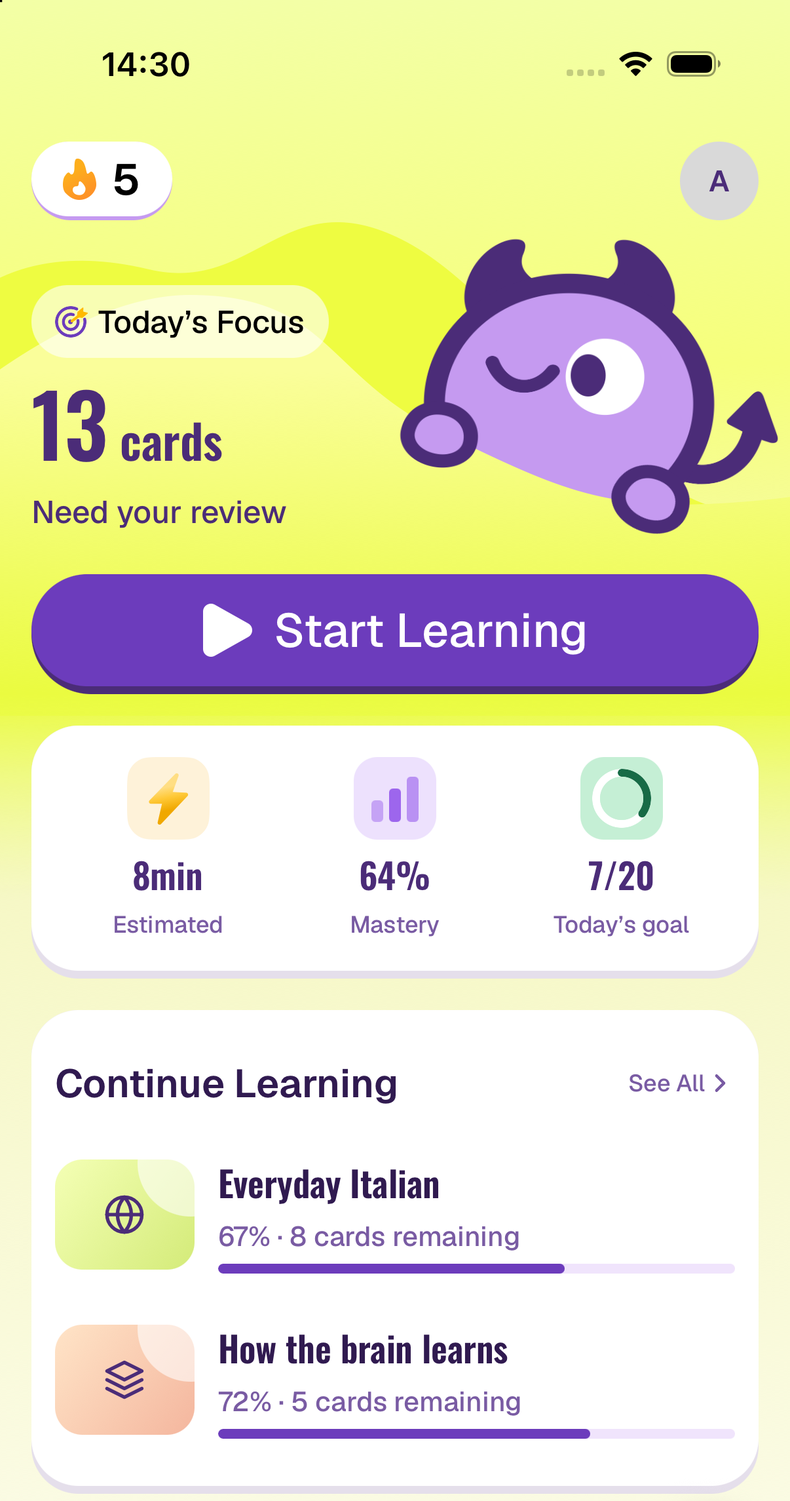
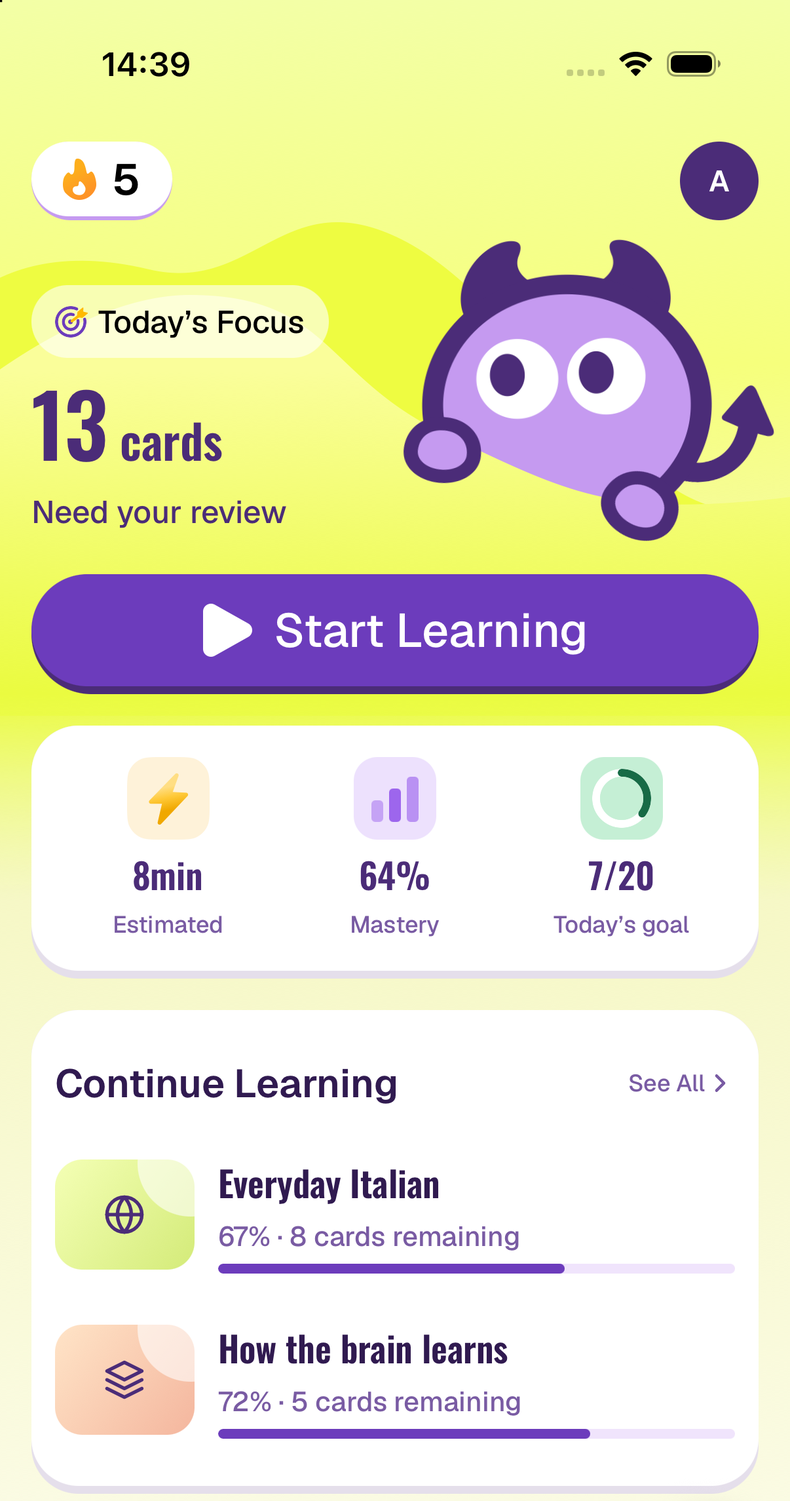
Let the website's character open its eyes
The hero wore one drawing, a face with its eyes shut, and nothing in it ever
changed. In the app that same mood holds a face for 2600-5200ms and then swaps
it — and it swaps behind a blink, so the expression never morphs, it is simply
different when the eyes come back up.

Here the two drawings are the blink. The happy face's eyes are already closed,
so cutting to the aha frame is the character opening them, and cutting back is
it closing them into a smile. Both sit in the one box that hops, at the same
450px square, and the swap is a cut rather than a crossfade — fading one face
into the other would morph it, which is the thing the app's blink exists to
prevent. The hold is the app's own, re-randomised each time.

The drawings register: measured off the rendered bitmaps, the two bodies share a
left edge and a top edge and agree on width to within a pixel, so only the face
changes. aha.svg comes from assets/memq-mascot-svg, the same set the app's
frames are drawn from.

Without JavaScript the closed-eyed face stays, as before, and the swap is off
under reduced motion along with everything else.

The Today capture is retaken for the avatar, which is no longer grey.

diff --git a/preview/memq-website/site.css b/preview/memq-website/site.css
@@ -1,4 +1,4 @@
-:root{--ink:#4b2c78;--deep:#301a50;--purple:#6c3cbc;--yellow:#f6ff7c;--cream:#fcfced;--white:#fff;--line:#e5dfeb;--muted:#795ba3;--lilac:#ede1fd;--peach:#ffdcc6}*{box-sizing:border-box}html{scroll-behavior:smooth}body{margin:0;background:var(--cream);color:var(--deep);font-family:Geist,sans-serif}a{color:inherit;text-decoration:none}.shell{width:min(100% - 72px,1320px);margin:auto}.nav{height:92px;display:flex;align-items:center;justify-content:space-between;gap:25px;position:absolute;z-index:3;left:0;right:0}.wordmark{font-weight:700;font-size:31px;letter-spacing:-2px;color:var(--ink)}.wordmark span{display:inline-block;color:var(--purple);font-size:19px;vertical-align:top;margin-left:1px}.nav nav{display:flex;gap:36px;font-weight:600;font-size:14px;color:var(--ink)}.nav nav a:hover,.text-link:hover{opacity:.65}.nav-action{display:flex;gap:32px;padding:14px 20px;border-radius:30px;background:var(--ink);color:white;font-size:13px;font-weight:700;align-items:center}.hero{min-height:780px;background:linear-gradient(150deg,#f3ffa6 0%,var(--yellow) 45%,#f4ffb4 100%);position:relative;overflow:hidden}.hero-grid{min-height:720px;padding-top:125px;display:grid;grid-template-columns:1fr 1fr;align-items:center;position:relative;z-index:1}.hero-copy{padding-bottom:70px}.eyebrow,.section-kicker,.mini-label{font-size:12px;font-weight:700;letter-spacing:.11em}.eyebrow{display:inline-flex;gap:10px;align-items:center;background:#ffffff8a;border-radius:22px;padding:10px 14px;color:var(--ink)}.dot{width:8px;height:8px;border-radius:50%;background:var(--purple)}h1,h2,h3,p{margin:0}h1,h2{font-family:Oswald,sans-serif;font-weight:600;letter-spacing:-.045em}h1{font-size:clamp(94px,11vw,165px);line-height:.87;color:var(--ink);margin:24px 0}h1 span{color:var(--purple)}.hero-copy p{font-size:clamp(17px,1.65vw,21px);line-height:1.55;max-width:490px;color:var(--ink)}.hero-actions{display:flex;align-items:center;gap:28px;margin-top:30px}.button{min-height:58px;padding:0 22px 0 26px;border-radius:40px;display:inline-flex;align-items:center;justify-content:space-between;gap:44px;font-weight:700;font-size:15px;transition:transform .22s ease,box-shadow .22s ease}.button:hover{transform:translateY(-3px)}.button-dark{background:var(--purple);color:white;box-shadow:0 5px 0 var(--ink)}.button-light{background:var(--yellow);color:var(--ink);box-shadow:0 5px 0 #a5a85f}.text-link{font-size:15px;font-weight:700;color:var(--ink)}.text-link span{margin-left:8px}.hero-art{height:570px;position:relative;display:grid;place-items:center}.hero-disc{position:absolute;width:min(37vw,475px);aspect-ratio:1;border-radius:50%;background:#e3d3fc}.mascot{position:relative;width:min(36vw,450px);z-index:1;transform-origin:50% 100%;animation:mascot-hop 3s linear infinite}.art-spark{position:absolute;color:var(--purple);font-size:66px;z-index:2;animation:twinkle 4s ease-in-out infinite}.spark-a{top:30px;right:18%}.spark-b{bottom:45px;left:8%;font-size:42px;animation-delay:-2s}.floating-chip{position:absolute;z-index:2;border-radius:50px;background:white;box-shadow:0 4px 0 var(--line);display:flex;align-items:center;gap:8px;padding:11px 16px;font-size:14px;color:var(--ink);font-weight:700}.chip-streak{top:21%;left:4%;transform:rotate(-8deg)}.chip-streak img{width:22px;height:22px}.chip-remember{right:0;bottom:23%;transform:rotate(7deg)}.chip-remember span{background:var(--yellow);border-radius:50%;width:25px;height:25px;display:grid;place-items:center}.art-note{position:absolute;right:3%;top:3%;color:var(--ink);transform:rotate(8deg);font-family:Oswald;font-size:17px;line-height:1.05}.art-note span{display:block;font-family:Geist;font-size:10px;font-weight:600;margin-top:5px}.hero-bottom{position:relative;z-index:1;display:flex;justify-content:space-between;padding:20px 0 28px;color:var(--ink);font-size:10px;font-weight:700;letter-spacing:.12em}.hero-orbit{position:absolute;border:1px solid #6c3cbc30;border-radius:50%;pointer-events:none}.orbit-one{width:820px;height:820px;right:-280px;top:-300px}.orbit-two{width:1000px;height:1000px;right:-370px;top:-390px}.ticker{overflow:hidden;background:var(--ink);color:var(--yellow);height:65px;display:flex;align-items:center}.ticker-track{font-family:Oswald;font-size:23px;white-space:nowrap;letter-spacing:.04em;animation:marquee 28s linear infinite}.ticker i{font-style:normal;color:#caa5ff;margin:0 28px}.intro{padding:150px 0;display:grid;grid-template-columns:1fr 2fr;gap:35px}.section-kicker{color:var(--muted);display:flex;align-items:center;gap:13px}.section-kicker span{width:34px;height:34px;display:grid;place-items:center;border:1px solid var(--line);border-radius:50%;letter-spacing:0}.intro h2,.steps h2{font-size:clamp(58px,7vw,102px);line-height:.98;color:var(--ink)}h2 em{font-style:normal;color:var(--purple)}.intro p{max-width:520px;margin-top:25px;font-size:18px;line-height:1.6;color:var(--muted)}.feature-band{background:#e7d6ff;padding:120px 0}.feature-grid{display:grid;grid-template-columns:1fr 1fr;gap:70px;align-items:center}.mini-label{color:var(--ink)}.feature-lead h2{font-size:clamp(64px,7vw,100px);line-height:.96;color:var(--ink);margin:24px 0}.feature-lead p,.steps-head p{font-size:17px;line-height:1.6;max-width:350px;color:var(--ink)}.feature-stack{display:grid;gap:14px}.feature-card{display:flex;gap:20px;align-items:center;background:white;border-radius:24px;padding:24px;box-shadow:0 5px 0 #cdbce2}.feature-icon{width:56px;height:56px;flex:none;border-radius:18px;display:grid;place-items:center;font-size:28px;font-weight:600;color:var(--ink)}.lime{background:var(--yellow)}.lavender{background:var(--lilac)}.peach{background:var(--peach)}.feature-card h3,.step-grid h3{font-family:Geist;font-size:20px;color:var(--ink);margin-bottom:7px}.feature-card p,.step-grid p{font-size:14px;line-height:1.55;color:var(--muted)}.feature-arrow{margin-left:auto;color:var(--purple);font-size:20px}.steps{padding:150px 0}.steps-head{display:flex;align-items:end;justify-content:space-between;gap:30px;margin:30px 0 55px}.step-grid{display:grid;grid-template-columns:repeat(3,1fr);gap:22px}.step-grid article{position:relative}.step-number{display:block;font-family:Oswald;font-size:16px;color:var(--muted);margin-bottom:12px}.step-art{height:240px;border-radius:28px;margin-bottom:22px;display:grid;place-items:center;position:relative;overflow:hidden}.art-one{background:#f0f8ad}.art-one>span{font-size:150px;line-height:1;color:var(--purple)}.tiny-note{position:absolute;right:20%;top:20%;padding:15px;background:white;border-radius:13px;transform:rotate(9deg);font:600 17px/1.1 Oswald;color:var(--ink);box-shadow:0 4px 0 var(--line)}.art-two{background:#e7d6ff}.tiny-card{background:white;border-radius:18px;padding:25px;width:65%;font-weight:700;color:var(--ink);font-size:18px;line-height:1.35;transform:rotate(-7deg);box-shadow:0 5px 0 #cdbce2}.tiny-card b{display:block;text-align:right;margin-top:15px;color:var(--purple)}.art-three{background:#ffdfce}.tiny-check{width:100px;height:100px;display:grid;place-items:center;border-radius:50%;background:var(--purple);color:white;font-size:53px;transform:rotate(-10deg)}.art-three>span{position:absolute;right:19%;top:16%;font-size:55px;color:var(--ink)}.step-grid h3{margin-top:0}.step-grid p{max-width:290px}.closing{background:var(--purple);color:white;overflow:hidden}.closing-grid{min-height:480px;display:flex;align-items:center;justify-content:space-between;gap:30px;padding-top:70px;padding-bottom:70px}.closing .mini-label{color:var(--yellow)}.closing h2{font-size:clamp(64px,7vw,100px);line-height:.97;margin:20px 0;color:white}.closing h2 em{color:var(--yellow)}.closing p{font-size:17px;line-height:1.5;margin-bottom:25px}.closing-mascot{width:min(35vw,360px);transform:rotate(8deg)}.site-footer{background:var(--ink);color:white;padding:70px 0 26px}.footer-grid{display:grid;grid-template-columns:2fr 1fr 1fr;gap:30px}.footer-logo{color:var(--yellow)}.footer-logo span{color:#d2b8ff}.footer-grid p{font-size:14px;opacity:.7;margin-top:12px}.footer-grid strong,.footer-grid>div>a:not(.wordmark){display:block;font-size:14px;margin-bottom:14px}.footer-grid>div>a:not(.wordmark){opacity:.72}.footer-bottom{margin-top:60px;padding-top:20px;border-top:1px solid #ffffff40;display:flex;justify-content:space-between;font-size:11px;letter-spacing:.08em;opacity:.65}@keyframes mascot-hop{0%{transform:translateY(0.000%) scale(1.0000,1.0000)}0.9444%{transform:translateY(0.033%) scale(1.0014,0.9984)}1.889%{transform:translateY(0.133%) scale(1.0076,0.9916)}2.833%{transform:translateY(0.300%) scale(1.0186,0.9794)}3.778%{transform:translateY(0.533%) scale(1.0343,0.9618)}4.722%{transform:translateY(0.833%) scale(1.0549,0.9390)}5.663%{transform:translateY(1.199%) scale(1.0803,0.9108)}5.667%{transform:translateY(1.200%) scale(0.8825,1.1306)}6.944%{transform:translateY(-0.083%) scale(0.9154,1.0940)}8.222%{transform:translateY(-1.133%) scale(0.9421,1.0643)}9.5%{transform:translateY(-1.950%) scale(0.9628,1.0413)}10.78%{transform:translateY(-2.533%) scale(0.9773,1.0252)}12.06%{transform:translateY(-2.883%) scale(0.9857,1.0159)}13.33%{transform:translateY(-3.000%) scale(0.9879,1.0134)}14.78%{transform:translateY(-2.917%) scale(0.9862,1.0154)}16.22%{transform:translateY(-2.667%) scale(0.9828,1.0191)}17.67%{transform:translateY(-2.250%) scale(0.9779,1.0246)}19.11%{transform:translateY(-1.667%) scale(0.9714,1.0318)}20.56%{transform:translateY(-0.917%) scale(0.9633,1.0408)}22%{transform:translateY(-0.002%) scale(0.9536,1.0515)}22%{transform:translateY(-0.000%) scale(1.1233,0.8630)}22.78%{transform:translateY(-0.000%) scale(1.0806,0.9104)}23.56%{transform:translateY(-0.000%) scale(1.0458,0.9492)}24.33%{transform:translateY(-0.000%) scale(1.0186,0.9793)}25.11%{transform:translateY(-0.000%) scale(0.9993,1.0008)}25.89%{transform:translateY(-0.000%) scale(0.9877,1.0137)}26.66%{transform:translateY(-0.000%) scale(0.9839,1.0179)}27.78%{transform:translateY(-0.000%) scale(0.9841,1.0177)}28.89%{transform:translateY(-0.000%) scale(0.9843,1.0174)}30%{transform:translateY(-0.000%) scale(0.9846,1.0171)}31.11%{transform:translateY(-0.000%) scale(0.9850,1.0167)}32.22%{transform:translateY(-0.000%) scale(0.9855,1.0161)}33.33%{transform:translateY(-0.000%) scale(0.9860,1.0155)}33.33%{transform:translateY(0.000%) scale(0.9860,1.0155)}34.28%{transform:translateY(0.033%) scale(0.9889,1.0123)}35.22%{transform:translateY(0.133%) scale(0.9967,1.0036)}36.17%{transform:translateY(0.300%) scale(1.0094,0.9896)}37.11%{transform:translateY(0.533%) scale(1.0268,0.9702)}38.06%{transform:translateY(0.833%) scale(1.0491,0.9454)}39%{transform:translateY(1.199%) scale(1.0761,0.9154)}39%{transform:translateY(1.200%) scale(1.0762,0.9153)}40.28%{transform:translateY(-0.083%) scale(0.9128,1.0969)}41.56%{transform:translateY(-1.133%) scale(0.9421,1.0644)}42.83%{transform:translateY(-1.950%) scale(0.9651,1.0388)}44.11%{transform:translateY(-2.533%) scale(0.9818,1.0202)}45.39%{transform:translateY(-2.883%) scale(0.9924,1.0085)}46.66%{transform:translateY(-3.000%) scale(0.9968,1.0036)}48.11%{transform:translateY(-2.917%) scale(0.9974,1.0029)}49.56%{transform:translateY(-2.667%) scale(0.9964,1.0040)}51%{transform:translateY(-2.250%) scale(0.9937,1.0070)}52.44%{transform:translateY(-1.667%) scale(0.9894,1.0118)}53.89%{transform:translateY(-0.917%) scale(0.9834,1.0185)}55.33%{transform:translateY(-0.002%) scale(0.9757,1.0269)}55.33%{transform:translateY(-0.000%) scale(0.9757,1.0270)}55.33%{transform:translateY(-0.000%) scale(1.1414,0.8428)}56.11%{transform:translateY(-0.000%) scale(1.1006,0.8883)}56.89%{transform:translateY(-0.000%) scale(1.0673,0.9253)}57.67%{transform:translateY(-0.000%) scale(1.0416,0.9538)}58.44%{transform:translateY(-0.000%) scale(1.0234,0.9740)}59.22%{transform:translateY(-0.000%) scale(1.0128,0.9858)}60%{transform:translateY(-0.000%) scale(1.0097,0.9893)}61.11%{transform:translateY(-0.000%) scale(1.0105,0.9883)}62.22%{transform:translateY(-0.000%) scale(1.0114,0.9874)}63.33%{transform:translateY(-0.000%) scale(1.0122,0.9865)}64.44%{transform:translateY(-0.000%) scale(1.0129,0.9857)}65.56%{transform:translateY(-0.000%) scale(1.0135,0.9850)}66.66%{transform:translateY(-0.000%) scale(1.0141,0.9843)}66.67%{transform:translateY(0.000%) scale(1.0141,0.9843)}67.61%{transform:translateY(0.033%) scale(1.0169,0.9812)}68.56%{transform:translateY(0.133%) scale(1.0243,0.9730)}69.5%{transform:translateY(0.300%) scale(1.0363,0.9596)}70.44%{transform:translateY(0.533%) scale(1.0529,0.9412)}71.39%{transform:translateY(0.833%) scale(1.0742,0.9176)}72.33%{transform:translateY(1.199%) scale(1.0999,0.8890)}72.33%{transform:translateY(1.200%) scale(1.1000,0.8889)}73.61%{transform:translateY(-0.083%) scale(0.9404,1.0663)}74.89%{transform:translateY(-1.133%) scale(0.9677,1.0359)}76.17%{transform:translateY(-1.950%) scale(0.9889,1.0124)}77.44%{transform:translateY(-2.533%) scale(1.0038,0.9957)}78.72%{transform:translateY(-2.883%) scale(1.0127,0.9859)}80%{transform:translateY(-3.000%) scale(1.0153,0.9830)}81.44%{transform:translateY(-2.917%) scale(1.0140,0.9845)}82.89%{transform:translateY(-2.667%) scale(1.0109,0.9879)}84.33%{transform:translateY(-2.250%) scale(1.0060,0.9933)}85.78%{transform:translateY(-1.667%) scale(0.9994,1.0007)}87.22%{transform:translateY(-0.917%) scale(0.9910,1.0100)}88.66%{transform:translateY(-0.002%) scale(0.9808,1.0213)}88.67%{transform:translateY(-0.000%) scale(1.1456,0.8382)}89.44%{transform:translateY(-0.000%) scale(1.1037,0.8847)}90.22%{transform:translateY(-0.000%) scale(1.0693,0.9230)}91%{transform:translateY(-0.000%) scale(1.0423,0.9529)}91.78%{transform:translateY(-0.000%) scale(1.0229,0.9746)}92.56%{transform:translateY(-0.000%) scale(1.0108,0.9879)}93.33%{transform:translateY(-0.000%) scale(1.0064,0.9929)}94.44%{transform:translateY(-0.000%) scale(1.0053,0.9941)}95.56%{transform:translateY(-0.000%) scale(1.0042,0.9953)}96.67%{transform:translateY(-0.000%) scale(1.0031,0.9965)}97.78%{transform:translateY(-0.000%) scale(1.0020,0.9978)}98.89%{transform:translateY(-0.000%) scale(1.0009,0.9990)}100%{transform:translateY(-0.000%) scale(0.9997,1.0003)}}@keyframes twinkle{0%,100%{transform:scale(.9) rotate(0)}50%{transform:scale(1.1) rotate(20deg)}}@keyframes marquee{to{transform:translateX(-50%)}}@media(max-width:760px){.shell{width:min(100% - 36px,600px)}.nav{height:74px}.nav nav{display:none}.nav-action{padding:12px 15px;gap:15px}.wordmark{font-size:27px}.hero{min-height:0}.hero-grid{padding-top:125px;min-height:0;display:flex;flex-direction:column;align-items:stretch}.hero-copy{padding-bottom:0}h1{font-size:clamp(88px,23vw,132px);margin:24px 0}.hero-copy p{font-size:17px;max-width:390px}.hero-actions{gap:18px;flex-wrap:wrap}.hero-art{height:390px;margin-top:10px}.hero-disc{width:290px}.mascot{width:280px}.spark-a{top:30px}.art-note{right:0;top:20px}.chip-streak{left:0;top:25%}.chip-remember{right:0;bottom:18%}.hero-bottom{padding-top:5px}.hero-bottom span:last-child{display:none}.ticker{height:55px}.ticker-track{font-size:19px}.intro{padding:90px 0;display:block}.intro-copy{margin-top:30px}.intro h2,.steps h2{font-size:58px}.intro p{font-size:16px}.feature-band{padding:80px 0}.feature-grid{grid-template-columns:1fr;gap:38px}.feature-lead h2{font-size:66px}.feature-card{padding:18px;gap:14px}.feature-card h3{font-size:18px}.feature-icon{width:48px;height:48px}.steps{padding:90px 0}.steps-head{display:block;margin:28px 0 40px}.steps-head p{margin-top:18px}.step-grid{grid-template-columns:1fr;gap:36px}.step-art{height:215px}.closing-grid{min-height:0;display:block;padding:80px 0 0}.closing h2{font-size:64px}.closing-mascot{display:block;width:245px;margin:30px auto -20px}.footer-grid{grid-template-columns:1fr 1fr}.footer-grid>div:first-child{grid-column:1 / -1;margin-bottom:20px}.footer-bottom{gap:10px;font-size:9px}}@media(prefers-reduced-motion:reduce){*,*::before,*::after{animation-duration:.01ms!important;animation-iteration-count:1!important;scroll-behavior:auto!important;transition-duration:.01ms!important}}
+:root{--ink:#4b2c78;--deep:#301a50;--purple:#6c3cbc;--yellow:#f6ff7c;--cream:#fcfced;--white:#fff;--line:#e5dfeb;--muted:#795ba3;--lilac:#ede1fd;--peach:#ffdcc6}*{box-sizing:border-box}html{scroll-behavior:smooth}body{margin:0;background:var(--cream);color:var(--deep);font-family:Geist,sans-serif}a{color:inherit;text-decoration:none}.shell{width:min(100% - 72px,1320px);margin:auto}.nav{height:92px;display:flex;align-items:center;justify-content:space-between;gap:25px;position:absolute;z-index:3;left:0;right:0}.wordmark{font-weight:700;font-size:31px;letter-spacing:-2px;color:var(--ink)}.wordmark span{display:inline-block;color:var(--purple);font-size:19px;vertical-align:top;margin-left:1px}.nav nav{display:flex;gap:36px;font-weight:600;font-size:14px;color:var(--ink)}.nav nav a:hover,.text-link:hover{opacity:.65}.nav-action{display:flex;gap:32px;padding:14px 20px;border-radius:30px;background:var(--ink);color:white;font-size:13px;font-weight:700;align-items:center}.hero{min-height:780px;background:linear-gradient(150deg,#f3ffa6 0%,var(--yellow) 45%,#f4ffb4 100%);position:relative;overflow:hidden}.hero-grid{min-height:720px;padding-top:125px;display:grid;grid-template-columns:1fr 1fr;align-items:center;position:relative;z-index:1}.hero-copy{padding-bottom:70px}.eyebrow,.section-kicker,.mini-label{font-size:12px;font-weight:700;letter-spacing:.11em}.eyebrow{display:inline-flex;gap:10px;align-items:center;background:#ffffff8a;border-radius:22px;padding:10px 14px;color:var(--ink)}.dot{width:8px;height:8px;border-radius:50%;background:var(--purple)}h1,h2,h3,p{margin:0}h1,h2{font-family:Oswald,sans-serif;font-weight:600;letter-spacing:-.045em}h1{font-size:clamp(94px,11vw,165px);line-height:.87;color:var(--ink);margin:24px 0}h1 span{color:var(--purple)}.hero-copy p{font-size:clamp(17px,1.65vw,21px);line-height:1.55;max-width:490px;color:var(--ink)}.hero-actions{display:flex;align-items:center;gap:28px;margin-top:30px}.button{min-height:58px;padding:0 22px 0 26px;border-radius:40px;display:inline-flex;align-items:center;justify-content:space-between;gap:44px;font-weight:700;font-size:15px;transition:transform .22s ease,box-shadow .22s ease}.button:hover{transform:translateY(-3px)}.button-dark{background:var(--purple);color:white;box-shadow:0 5px 0 var(--ink)}.button-light{background:var(--yellow);color:var(--ink);box-shadow:0 5px 0 #a5a85f}.text-link{font-size:15px;font-weight:700;color:var(--ink)}.text-link span{margin-left:8px}.hero-art{height:570px;position:relative;display:grid;place-items:center}.hero-disc{position:absolute;width:min(37vw,475px);aspect-ratio:1;border-radius:50%;background:#e3d3fc}.mascot{position:relative;width:min(36vw,450px);z-index:1;transform-origin:50% 100%;animation:mascot-hop 3s linear infinite}.mascot-face{display:block;width:100%}.mascot-face-open{position:absolute;inset:0;opacity:0}.mascot.is-open .mascot-face{opacity:0}.mascot.is-open .mascot-face-open{opacity:1}.art-spark{position:absolute;color:var(--purple);font-size:66px;z-index:2;animation:twinkle 4s ease-in-out infinite}.spark-a{top:30px;right:18%}.spark-b{bottom:45px;left:8%;font-size:42px;animation-delay:-2s}.floating-chip{position:absolute;z-index:2;border-radius:50px;background:white;box-shadow:0 4px 0 var(--line);display:flex;align-items:center;gap:8px;padding:11px 16px;font-size:14px;color:var(--ink);font-weight:700}.chip-streak{top:21%;left:4%;transform:rotate(-8deg)}.chip-streak img{width:22px;height:22px}.chip-remember{right:0;bottom:23%;transform:rotate(7deg)}.chip-remember span{background:var(--yellow);border-radius:50%;width:25px;height:25px;display:grid;place-items:center}.art-note{position:absolute;right:3%;top:3%;color:var(--ink);transform:rotate(8deg);font-family:Oswald;font-size:17px;line-height:1.05}.art-note span{display:block;font-family:Geist;font-size:10px;font-weight:600;margin-top:5px}.hero-bottom{position:relative;z-index:1;display:flex;justify-content:space-between;padding:20px 0 28px;color:var(--ink);font-size:10px;font-weight:700;letter-spacing:.12em}.hero-orbit{position:absolute;border:1px solid #6c3cbc30;border-radius:50%;pointer-events:none}.orbit-one{width:820px;height:820px;right:-280px;top:-300px}.orbit-two{width:1000px;height:1000px;right:-370px;top:-390px}.ticker{overflow:hidden;background:var(--ink);color:var(--yellow);height:65px;display:flex;align-items:center}.ticker-track{font-family:Oswald;font-size:23px;white-space:nowrap;letter-spacing:.04em;animation:marquee 28s linear infinite}.ticker i{font-style:normal;color:#caa5ff;margin:0 28px}.intro{padding:150px 0;display:grid;grid-template-columns:1fr 2fr;gap:35px}.section-kicker{color:var(--muted);display:flex;align-items:center;gap:13px}.section-kicker span{width:34px;height:34px;display:grid;place-items:center;border:1px solid var(--line);border-radius:50%;letter-spacing:0}.intro h2,.steps h2{font-size:clamp(58px,7vw,102px);line-height:.98;color:var(--ink)}h2 em{font-style:normal;color:var(--purple)}.intro p{max-width:520px;margin-top:25px;font-size:18px;line-height:1.6;color:var(--muted)}.feature-band{background:#e7d6ff;padding:120px 0}.feature-grid{display:grid;grid-template-columns:1fr 1fr;gap:70px;align-items:center}.mini-label{color:var(--ink)}.feature-lead h2{font-size:clamp(64px,7vw,100px);line-height:.96;color:var(--ink);margin:24px 0}.feature-lead p,.steps-head p{font-size:17px;line-height:1.6;max-width:350px;color:var(--ink)}.feature-stack{display:grid;gap:14px}.feature-card{display:flex;gap:20px;align-items:center;background:white;border-radius:24px;padding:24px;box-shadow:0 5px 0 #cdbce2}.feature-icon{width:56px;height:56px;flex:none;border-radius:18px;display:grid;place-items:center;font-size:28px;font-weight:600;color:var(--ink)}.lime{background:var(--yellow)}.lavender{background:var(--lilac)}.peach{background:var(--peach)}.feature-card h3,.step-grid h3{font-family:Geist;font-size:20px;color:var(--ink);margin-bottom:7px}.feature-card p,.step-grid p{font-size:14px;line-height:1.55;color:var(--muted)}.feature-arrow{margin-left:auto;color:var(--purple);font-size:20px}.steps{padding:150px 0}.steps-head{display:flex;align-items:end;justify-content:space-between;gap:30px;margin:30px 0 55px}.step-grid{display:grid;grid-template-columns:repeat(3,1fr);gap:22px}.step-grid article{position:relative}.step-number{display:block;font-family:Oswald;font-size:16px;color:var(--muted);margin-bottom:12px}.step-art{height:240px;border-radius:28px;margin-bottom:22px;display:grid;place-items:center;position:relative;overflow:hidden}.art-one{background:#f0f8ad}.art-one>span{font-size:150px;line-height:1;color:var(--purple)}.tiny-note{position:absolute;right:20%;top:20%;padding:15px;background:white;border-radius:13px;transform:rotate(9deg);font:600 17px/1.1 Oswald;color:var(--ink);box-shadow:0 4px 0 var(--line)}.art-two{background:#e7d6ff}.tiny-card{background:white;border-radius:18px;padding:25px;width:65%;font-weight:700;color:var(--ink);font-size:18px;line-height:1.35;transform:rotate(-7deg);box-shadow:0 5px 0 #cdbce2}.tiny-card b{display:block;text-align:right;margin-top:15px;color:var(--purple)}.art-three{background:#ffdfce}.tiny-check{width:100px;height:100px;display:grid;place-items:center;border-radius:50%;background:var(--purple);color:white;font-size:53px;transform:rotate(-10deg)}.art-three>span{position:absolute;right:19%;top:16%;font-size:55px;color:var(--ink)}.step-grid h3{margin-top:0}.step-grid p{max-width:290px}.closing{background:var(--purple);color:white;overflow:hidden}.closing-grid{min-height:480px;display:flex;align-items:center;justify-content:space-between;gap:30px;padding-top:70px;padding-bottom:70px}.closing .mini-label{color:var(--yellow)}.closing h2{font-size:clamp(64px,7vw,100px);line-height:.97;margin:20px 0;color:white}.closing h2 em{color:var(--yellow)}.closing p{font-size:17px;line-height:1.5;margin-bottom:25px}.closing-mascot{width:min(35vw,360px);transform:rotate(8deg)}.site-footer{background:var(--ink);color:white;padding:70px 0 26px}.footer-grid{display:grid;grid-template-columns:2fr 1fr 1fr;gap:30px}.footer-logo{color:var(--yellow)}.footer-logo span{color:#d2b8ff}.footer-grid p{font-size:14px;opacity:.7;margin-top:12px}.footer-grid strong,.footer-grid>div>a:not(.wordmark){display:block;font-size:14px;margin-bottom:14px}.footer-grid>div>a:not(.wordmark){opacity:.72}.footer-bottom{margin-top:60px;padding-top:20px;border-top:1px solid #ffffff40;display:flex;justify-content:space-between;font-size:11px;letter-spacing:.08em;opacity:.65}@keyframes mascot-hop{0%{transform:translateY(0.000%) scale(1.0000,1.0000)}0.9444%{transform:translateY(0.033%) scale(1.0014,0.9984)}1.889%{transform:translateY(0.133%) scale(1.0076,0.9916)}2.833%{transform:translateY(0.300%) scale(1.0186,0.9794)}3.778%{transform:translateY(0.533%) scale(1.0343,0.9618)}4.722%{transform:translateY(0.833%) scale(1.0549,0.9390)}5.663%{transform:translateY(1.199%) scale(1.0803,0.9108)}5.667%{transform:translateY(1.200%) scale(0.8825,1.1306)}6.944%{transform:translateY(-0.083%) scale(0.9154,1.0940)}8.222%{transform:translateY(-1.133%) scale(0.9421,1.0643)}9.5%{transform:translateY(-1.950%) scale(0.9628,1.0413)}10.78%{transform:translateY(-2.533%) scale(0.9773,1.0252)}12.06%{transform:translateY(-2.883%) scale(0.9857,1.0159)}13.33%{transform:translateY(-3.000%) scale(0.9879,1.0134)}14.78%{transform:translateY(-2.917%) scale(0.9862,1.0154)}16.22%{transform:translateY(-2.667%) scale(0.9828,1.0191)}17.67%{transform:translateY(-2.250%) scale(0.9779,1.0246)}19.11%{transform:translateY(-1.667%) scale(0.9714,1.0318)}20.56%{transform:translateY(-0.917%) scale(0.9633,1.0408)}22%{transform:translateY(-0.002%) scale(0.9536,1.0515)}22%{transform:translateY(-0.000%) scale(1.1233,0.8630)}22.78%{transform:translateY(-0.000%) scale(1.0806,0.9104)}23.56%{transform:translateY(-0.000%) scale(1.0458,0.9492)}24.33%{transform:translateY(-0.000%) scale(1.0186,0.9793)}25.11%{transform:translateY(-0.000%) scale(0.9993,1.0008)}25.89%{transform:translateY(-0.000%) scale(0.9877,1.0137)}26.66%{transform:translateY(-0.000%) scale(0.9839,1.0179)}27.78%{transform:translateY(-0.000%) scale(0.9841,1.0177)}28.89%{transform:translateY(-0.000%) scale(0.9843,1.0174)}30%{transform:translateY(-0.000%) scale(0.9846,1.0171)}31.11%{transform:translateY(-0.000%) scale(0.9850,1.0167)}32.22%{transform:translateY(-0.000%) scale(0.9855,1.0161)}33.33%{transform:translateY(-0.000%) scale(0.9860,1.0155)}33.33%{transform:translateY(0.000%) scale(0.9860,1.0155)}34.28%{transform:translateY(0.033%) scale(0.9889,1.0123)}35.22%{transform:translateY(0.133%) scale(0.9967,1.0036)}36.17%{transform:translateY(0.300%) scale(1.0094,0.9896)}37.11%{transform:translateY(0.533%) scale(1.0268,0.9702)}38.06%{transform:translateY(0.833%) scale(1.0491,0.9454)}39%{transform:translateY(1.199%) scale(1.0761,0.9154)}39%{transform:translateY(1.200%) scale(1.0762,0.9153)}40.28%{transform:translateY(-0.083%) scale(0.9128,1.0969)}41.56%{transform:translateY(-1.133%) scale(0.9421,1.0644)}42.83%{transform:translateY(-1.950%) scale(0.9651,1.0388)}44.11%{transform:translateY(-2.533%) scale(0.9818,1.0202)}45.39%{transform:translateY(-2.883%) scale(0.9924,1.0085)}46.66%{transform:translateY(-3.000%) scale(0.9968,1.0036)}48.11%{transform:translateY(-2.917%) scale(0.9974,1.0029)}49.56%{transform:translateY(-2.667%) scale(0.9964,1.0040)}51%{transform:translateY(-2.250%) scale(0.9937,1.0070)}52.44%{transform:translateY(-1.667%) scale(0.9894,1.0118)}53.89%{transform:translateY(-0.917%) scale(0.9834,1.0185)}55.33%{transform:translateY(-0.002%) scale(0.9757,1.0269)}55.33%{transform:translateY(-0.000%) scale(0.9757,1.0270)}55.33%{transform:translateY(-0.000%) scale(1.1414,0.8428)}56.11%{transform:translateY(-0.000%) scale(1.1006,0.8883)}56.89%{transform:translateY(-0.000%) scale(1.0673,0.9253)}57.67%{transform:translateY(-0.000%) scale(1.0416,0.9538)}58.44%{transform:translateY(-0.000%) scale(1.0234,0.9740)}59.22%{transform:translateY(-0.000%) scale(1.0128,0.9858)}60%{transform:translateY(-0.000%) scale(1.0097,0.9893)}61.11%{transform:translateY(-0.000%) scale(1.0105,0.9883)}62.22%{transform:translateY(-0.000%) scale(1.0114,0.9874)}63.33%{transform:translateY(-0.000%) scale(1.0122,0.9865)}64.44%{transform:translateY(-0.000%) scale(1.0129,0.9857)}65.56%{transform:translateY(-0.000%) scale(1.0135,0.9850)}66.66%{transform:translateY(-0.000%) scale(1.0141,0.9843)}66.67%{transform:translateY(0.000%) scale(1.0141,0.9843)}67.61%{transform:translateY(0.033%) scale(1.0169,0.9812)}68.56%{transform:translateY(0.133%) scale(1.0243,0.9730)}69.5%{transform:translateY(0.300%) scale(1.0363,0.9596)}70.44%{transform:translateY(0.533%) scale(1.0529,0.9412)}71.39%{transform:translateY(0.833%) scale(1.0742,0.9176)}72.33%{transform:translateY(1.199%) scale(1.0999,0.8890)}72.33%{transform:translateY(1.200%) scale(1.1000,0.8889)}73.61%{transform:translateY(-0.083%) scale(0.9404,1.0663)}74.89%{transform:translateY(-1.133%) scale(0.9677,1.0359)}76.17%{transform:translateY(-1.950%) scale(0.9889,1.0124)}77.44%{transform:translateY(-2.533%) scale(1.0038,0.9957)}78.72%{transform:translateY(-2.883%) scale(1.0127,0.9859)}80%{transform:translateY(-3.000%) scale(1.0153,0.9830)}81.44%{transform:translateY(-2.917%) scale(1.0140,0.9845)}82.89%{transform:translateY(-2.667%) scale(1.0109,0.9879)}84.33%{transform:translateY(-2.250%) scale(1.0060,0.9933)}85.78%{transform:translateY(-1.667%) scale(0.9994,1.0007)}87.22%{transform:translateY(-0.917%) scale(0.9910,1.0100)}88.66%{transform:translateY(-0.002%) scale(0.9808,1.0213)}88.67%{transform:translateY(-0.000%) scale(1.1456,0.8382)}89.44%{transform:translateY(-0.000%) scale(1.1037,0.8847)}90.22%{transform:translateY(-0.000%) scale(1.0693,0.9230)}91%{transform:translateY(-0.000%) scale(1.0423,0.9529)}91.78%{transform:translateY(-0.000%) scale(1.0229,0.9746)}92.56%{transform:translateY(-0.000%) scale(1.0108,0.9879)}93.33%{transform:translateY(-0.000%) scale(1.0064,0.9929)}94.44%{transform:translateY(-0.000%) scale(1.0053,0.9941)}95.56%{transform:translateY(-0.000%) scale(1.0042,0.9953)}96.67%{transform:translateY(-0.000%) scale(1.0031,0.9965)}97.78%{transform:translateY(-0.000%) scale(1.0020,0.9978)}98.89%{transform:translateY(-0.000%) scale(1.0009,0.9990)}100%{transform:translateY(-0.000%) scale(0.9997,1.0003)}}@keyframes twinkle{0%,100%{transform:scale(.9) rotate(0)}50%{transform:scale(1.1) rotate(20deg)}}@keyframes marquee{to{transform:translateX(-50%)}}@media(max-width:760px){.shell{width:min(100% - 36px,600px)}.nav{height:74px}.nav nav{display:none}.nav-action{padding:12px 15px;gap:15px}.wordmark{font-size:27px}.hero{min-height:0}.hero-grid{padding-top:125px;min-height:0;display:flex;flex-direction:column;align-items:stretch}.hero-copy{padding-bottom:0}h1{font-size:clamp(88px,23vw,132px);margin:24px 0}.hero-copy p{font-size:17px;max-width:390px}.hero-actions{gap:18px;flex-wrap:wrap}.hero-art{height:390px;margin-top:10px}.hero-disc{width:290px}.mascot{width:280px}.spark-a{top:30px}.art-note{right:0;top:20px}.chip-streak{left:0;top:25%}.chip-remember{right:0;bottom:18%}.hero-bottom{padding-top:5px}.hero-bottom span:last-child{display:none}.ticker{height:55px}.ticker-track{font-size:19px}.intro{padding:90px 0;display:block}.intro-copy{margin-top:30px}.intro h2,.steps h2{font-size:58px}.intro p{font-size:16px}.feature-band{padding:80px 0}.feature-grid{grid-template-columns:1fr;gap:38px}.feature-lead h2{font-size:66px}.feature-card{padding:18px;gap:14px}.feature-card h3{font-size:18px}.feature-icon{width:48px;height:48px}.steps{padding:90px 0}.steps-head{display:block;margin:28px 0 40px}.steps-head p{margin-top:18px}.step-grid{grid-template-columns:1fr;gap:36px}.step-art{height:215px}.closing-grid{min-height:0;display:block;padding:80px 0 0}.closing h2{font-size:64px}.closing-mascot{display:block;width:245px;margin:30px auto -20px}.footer-grid{grid-template-columns:1fr 1fr}.footer-grid>div:first-child{grid-column:1 / -1;margin-bottom:20px}.footer-bottom{gap:10px;font-size:9px}}@media(prefers-reduced-motion:reduce){*,*::before,*::after{animation-duration:.01ms!important;animation-iteration-count:1!important;scroll-behavior:auto!important;transition-duration:.01ms!important}}
 
 .product-peek{background:#f9f9e9;overflow:hidden}.product-grid{min-height:660px;display:grid;grid-template-columns:1fr 1fr;align-items:center;gap:50px;padding-top:90px;padding-bottom:90px}.product-copy h2{font-size:clamp(58px,6vw,88px);line-height:1;color:var(--ink);margin:28px 0}.product-copy p{max-width:440px;font-size:17px;line-height:1.6;color:var(--muted);margin-bottom:28px}.product-scene{min-height:500px;display:grid;place-items:center;position:relative}.product-scene:before{content:"";position:absolute;width:480px;height:480px;max-width:100%;border-radius:50%;background:#f0f8ad}.product-phone{width:266px;height:493px;background:#f6ff7c;border:8px solid var(--ink);border-radius:38px;box-shadow:0 10px 0 #c8b6db;overflow:hidden;position:relative;transform:rotate(4deg)}.product-phone img{display:block;width:100%;height:100%;object-fit:cover;object-position:top}.product-spark{position:absolute;left:10%;top:5%;font-size:65px;color:var(--purple)}.product-note{position:absolute;right:0;bottom:18%;padding:17px;background:white;border-radius:15px;box-shadow:0 4px 0 var(--line);font:600 16px/1.2 Oswald;color:var(--ink);transform:rotate(-7deg)}.product-note span{color:var(--purple);margin-left:8px}@media(max-width:760px){.product-grid{min-height:0;grid-template-columns:1fr;gap:35px;padding-top:80px;padding-bottom:80px}.product-copy h2{font-size:58px}.product-copy p{font-size:16px}.product-scene{min-height:465px}.product-scene:before{width:340px;height:340px}.product-phone{width:220px;height:407px;border-width:7px;border-radius:32px}.product-note{right:0;bottom:12%;font-size:13px}.product-spark{left:0;top:7%;font-size:50px}}
 .reveal{opacity:0;transform:translateY(24px);transition:opacity .65s ease,transform .65s cubic-bezier(.2,.7,.2,1)}.reveal.is-visible{opacity:1;transform:translateY(0)}.feature-card:nth-child(2),.step-grid article:nth-child(2){transition-delay:.08s}.feature-card:nth-child(3),.step-grid article:nth-child(3){transition-delay:.16s}@media(prefers-reduced-motion:reduce){.reveal{opacity:1;transform:none}}

diff --git a/preview/memq-website/index.html b/preview/memq-website/index.html
@@ -13,7 +13,7 @@
 <main>
 <section class="hero" id="top"><div class="hero-orbit orbit-one" aria-hidden="true"></div><div class="hero-orbit orbit-two" aria-hidden="true"></div>
   <div class="shell hero-grid"><div class="hero-copy"><div class="eyebrow"><span class="dot"></span> A LITTLE LEARNING, EVERY DAY</div><h1>Make it<br><span>stick.</span></h1><p>All the things you want to remember, in one happy place. Turn what you’re learning into a habit that lasts.</p><div class="hero-actions"><a class="button button-dark" href="https://apps.apple.com/app/id6757248312">Get MemQ for iPhone <span>↗</span></a><a class="text-link" href="#why">Meet MemQ <span>↓</span></a></div></div>
-  <div class="hero-art" aria-hidden="true"><div class="hero-disc"></div><div class="art-spark spark-a">✳</div><div class="art-spark spark-b">✦</div><img class="mascot" src="img/current/happy.svg" alt=""><div class="floating-chip chip-streak"><img src="img/current/flame.svg" alt=""><span>Keep it going!</span></div><div class="floating-chip chip-remember"><span>✓</span> Nice work!</div><div class="art-note"><strong>LESS<br>FORGETTING.</strong><span>more knowing ↗</span></div></div></div>
+  <div class="hero-art" aria-hidden="true"><div class="hero-disc"></div><div class="art-spark spark-a">✳</div><div class="art-spark spark-b">✦</div><div class="mascot"><img class="mascot-face" src="img/current/happy.svg" alt=""><img class="mascot-face mascot-face-open" src="img/current/aha.svg" alt="" aria-hidden="true"></div><div class="floating-chip chip-streak"><img src="img/current/flame.svg" alt=""><span>Keep it going!</span></div><div class="floating-chip chip-remember"><span>✓</span> Nice work!</div><div class="art-note"><strong>LESS<br>FORGETTING.</strong><span>more knowing ↗</span></div></div></div>
   <div class="hero-bottom shell"><span>MADE FOR CURIOUS MINDS</span><span>SCROLL TO EXPLORE ↓</span></div>
 </section>
 <div class="ticker" aria-hidden="true"><div class="ticker-track">LEARN IT <i>✳</i> REMEMBER IT <i>✳</i> MAKE IT YOURS <i>✳</i> LEARN IT <i>✳</i> REMEMBER IT <i>✳</i> MAKE IT YOURS <i>✳</i></div></div>

diff --git a/preview/memq-website/site.js b/preview/memq-website/site.js
@@ -12,3 +12,16 @@ if ('IntersectionObserver' in window && !reduceMotion.matches) {
   }, { threshold: 0.12, rootMargin: '0px 0px -24px 0px' });
   items.forEach((item) => { item.classList.add('reveal'); observer.observe(item); });
 }
+
+// The character changes expression, the way it does in the app: it holds a face for
+// 2600-5200ms and then swaps (components/mascot/state.ts, `happy.frameHold`). There
+// the swap is hidden inside a blink; here the two drawings *are* the blink, because
+// the happy face's eyes are already closed — so the swap itself is the eyes opening.
+// It is a cut, not a crossfade: fading one face into the other morphs it, which is
+// the thing the app's blink exists to avoid.
+const mascot = document.querySelector('.mascot');
+if (mascot && !reduceMotion.matches) {
+  const hold = () => 2600 + Math.random() * 2600;
+  const swap = () => { mascot.classList.toggle('is-open'); window.setTimeout(swap, hold()); };
+  window.setTimeout(swap, hold());
+}
